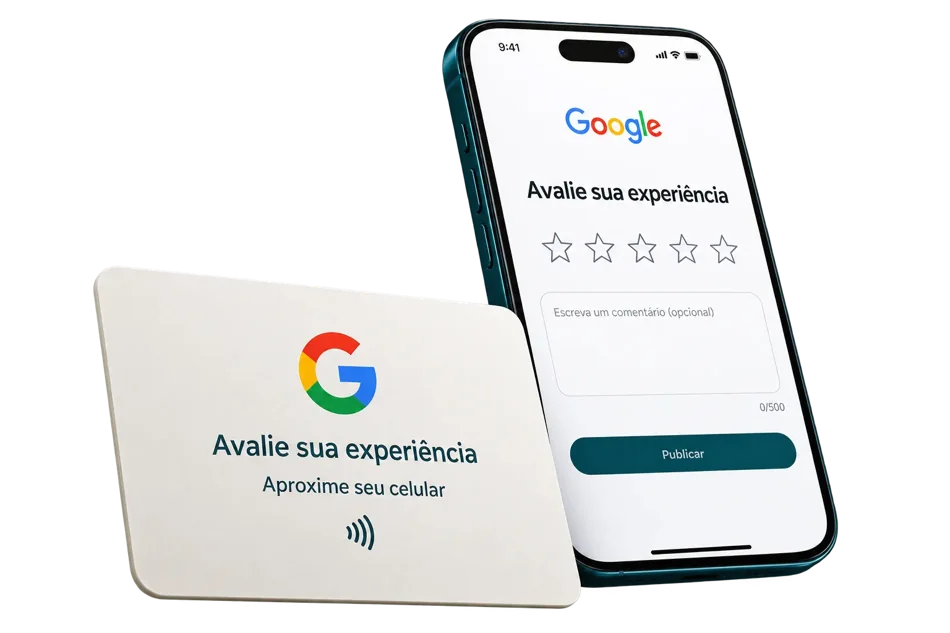
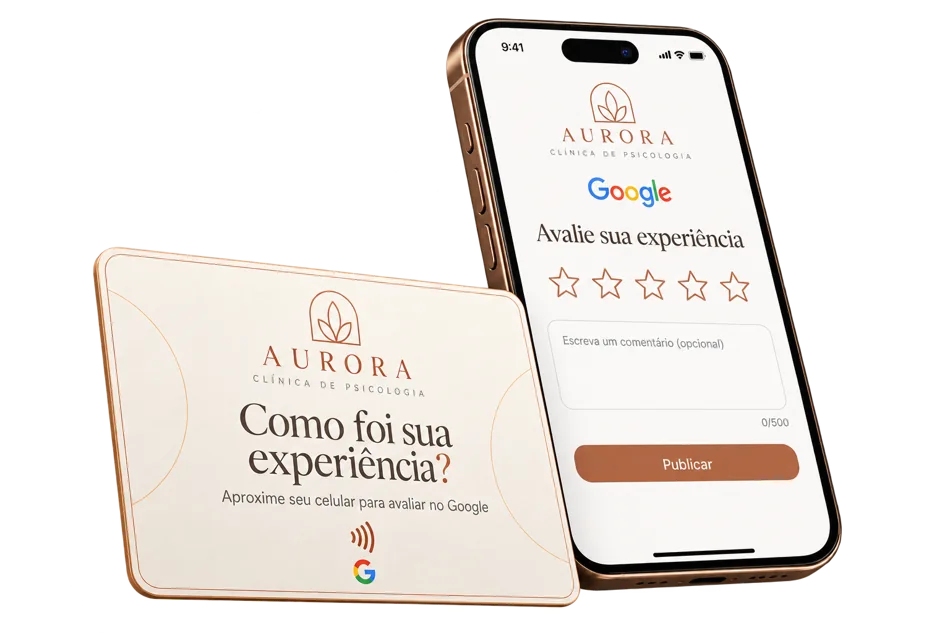
Personalize Google review NFC card mockup with Aurora clinic identity

Changed region(s): [[0.0916, 0.03, 0.8853, 0.9605], [0.6411, 0.5403, 0.7632, 0.5703]]

diff --git a/app/page.tsx b/app/page.tsx
@@ -10,7 +10,7 @@ export default function Home(){return <><BlogHeader/><main id="conteudo" tabInde
 <section className="rv-focus-hero"><div className="shell rv-focus-hero-grid"><div className="rv-focus-copy"><p className="rv-label">Sites · SEO · Presença no Google</p><h1>Seu trabalho bem apresentado.<br/><em>Seu contato fácil de encontrar.</em></h1><p className="rv-lead">Criamos sites e trabalhamos a presença no Google de profissionais liberais, com atendimento remoto em todo o Brasil.</p><p className="rv-focus-price"><CompactPrice/></p><div className="rv-actions"><DiagnosticCTA/><a href="#investimento">Ver o que está incluído ↓</a></div><p className="rv-focus-note">Site One Page, domínio e hospedagem. Perfil da Empresa no Google quando elegível.</p></div><figure className="rv-focus-preview"><img src="/mockups/site-devices-clean.webp" alt="Demonstração ilustrativa do site da Clínica Aurora em desktop e celular" width="1100" height="733" fetchPriority="high" decoding="async"/><figcaption>Seu site bem apresentado no computador e no celular.<span>Exemplo ilustrativo · Clínica Aurora fictícia</span></figcaption></figure></div></section>
 <section className="rv-section" id="portfolio"><div className="shell"><div className="rv-heading"><div><p className="rv-label">Portfólio de sites</p><h2>Sites criados <em>pela Ravyt.</em></h2><p className="rv-intro">Veja as prévias dos nossos projetos. Cada card identifica se é um site publicado ou uma demonstração conceitual.</p></div></div><div className="rv-cases">{projects.map(project=><article key={project.slug}><PortfolioPreview slug={project.slug} name={project.name}/><p className="rv-label">{project.type}</p><h3>{project.name}</h3><p>{project.text}</p></article>)}</div></div></section>
 <section className="rv-section rv-dark rv-focus-team" id="sobre"><div className="shell"><p className="rv-label">Quem vai cuidar do seu projeto</p><h2>Você conversa com quem <em>faz o trabalho.</em></h2><Team/><p className="rv-intro">A Ravyt Digital responde pela proposta, pelo contrato, pela implantação e pelo acompanhamento.</p><blockquote className="rv-testimonial"><p>“Desde o início, ela entendeu muito rápido o que eu queria fazer e quais eram as minhas necessidades.”</p><footer>Rafaela Zanandrea · Psicóloga intercultural · Depoimento sobre a parceria</footer></blockquote><Link className="rv-text-link" href="/sobre">Conhecer a Ravyt →</Link></div></section>
-<section className="rv-section rv-offer" id="investimento"><div className="shell rv-split"><div><p className="rv-label">O que está incluído</p><h2>Uma estrutura para <em>apresentar e manter seu trabalho.</em></h2><p className="rv-intro">Site profissional, SEO e acompanhamento durante 12 meses. As entregas e os limites do serviço são apresentados antes da contratação.</p><div className="rv-scope-summary"><h3>Site</h3><p>Uma página com apresentação, serviços e contato, adaptada ao celular.</p><h3>Google e SEO</h3><p>Estrutura inicial de SEO e melhorias conforme o escopo. Perfil da Empresa no Google quando elegível.</p><h3>Acompanhamento</h3><p>Domínio, hospedagem, manutenção, atualizações e suporte dentro do escopo contratado.</p></div><p className="rv-focus-online">Atende exclusivamente online? Avaliamos a estratégia de site e SEO adequada à sua atuação. Um perfil local no Google depende de elegibilidade.</p><figure className="rv-plan-nfc"><img src="/mockups/cartao-nfc-clean.webp" width="950" height="633" loading="lazy" decoding="async" alt="Mockup ilustrativo de um cartão NFC ao lado de um celular com a tela de avaliação do Google"/><figcaption><strong>Cartão NFC de Avaliação do Google</strong><p>Aproxime o celular para acessar o link de avaliação. Bônus para clientes no Brasil, quando aplicável.</p><small>Mockup ilustrativo. A avaliação é feita pelo próprio cliente.</small></figcaption></figure></div><PlanOffer/></div></section>
+<section className="rv-section rv-offer" id="investimento"><div className="shell rv-split"><div><p className="rv-label">O que está incluído</p><h2>Uma estrutura para <em>apresentar e manter seu trabalho.</em></h2><p className="rv-intro">Site profissional, SEO e acompanhamento durante 12 meses. As entregas e os limites do serviço são apresentados antes da contratação.</p><div className="rv-scope-summary"><h3>Site</h3><p>Uma página com apresentação, serviços e contato, adaptada ao celular.</p><h3>Google e SEO</h3><p>Estrutura inicial de SEO e melhorias conforme o escopo. Perfil da Empresa no Google quando elegível.</p><h3>Acompanhamento</h3><p>Domínio, hospedagem, manutenção, atualizações e suporte dentro do escopo contratado.</p></div><p className="rv-focus-online">Atende exclusivamente online? Avaliamos a estratégia de site e SEO adequada à sua atuação. Um perfil local no Google depende de elegibilidade.</p><figure className="rv-plan-nfc"><img src="/mockups/cartao-nfc-clean.webp" width="950" height="633" loading="lazy" decoding="async" alt="Cartão NFC personalizado da Clínica Aurora ao lado de um celular com a tela de avaliação do Google"/><figcaption><strong>Cartão NFC de Avaliação do Google</strong><p>Aproxime o celular para acessar o link de avaliação. Bônus para clientes no Brasil, quando aplicável.</p><small>Exemplo ilustrativo · Clínica Aurora fictícia. A avaliação é feita pelo próprio cliente.</small></figcaption></figure></div><PlanOffer/></div></section>
 <section className="rv-section rv-focus-process" id="como-funciona"><div className="shell"><p className="rv-label">Como começamos</p><h2>Do primeiro contato <em>ao site publicado.</em></h2><ol className="rv-process-grid"><li><span>01</span><h3>Conversa</h3><p>Você conta o que faz, como atende e o que precisa melhorar.</p></li><li><span>02</span><h3>Proposta</h3><p>Combinamos entregas, prazos, condições e responsabilidades.</p></li><li><span>03</span><h3>Implantação</h3><p>Organizamos o conteúdo, construímos o site e configuramos a estrutura contratada.</p></li><li><span>04</span><h3>Acompanhamento</h3><p>Mantemos o site e trabalhamos as melhorias durante os 12 meses.</p></li></ol><div className="rv-service-links"><Link href="/sites">Criação de sites →</Link><Link href="/google-meu-negocio">Presença no Google →</Link><Link href="/seo">SEO →</Link></div></div></section>
 <section className="rv-section" id="duvidas"><div className="shell rv-split"><div><p className="rv-label">Antes de contratar</p><h2>O que você precisa <em>saber.</em></h2><p className="rv-intro">Quer revisar sua presença atual? <Link className="rv-inline-link" href="/recursos/checklist-presenca-google">Use nosso checklist gratuito.</Link></p></div><FAQ/></div></section>
 <section className="rv-final"><div className="shell"><p className="rv-label">Seu próximo passo</p><h2>Vamos conversar <em>sobre seu projeto?</em></h2><p>Conte o que você faz e como atende. Nossa equipe explica as entregas e condições antes da contratação.</p><DiagnosticCTA/></div></section>
